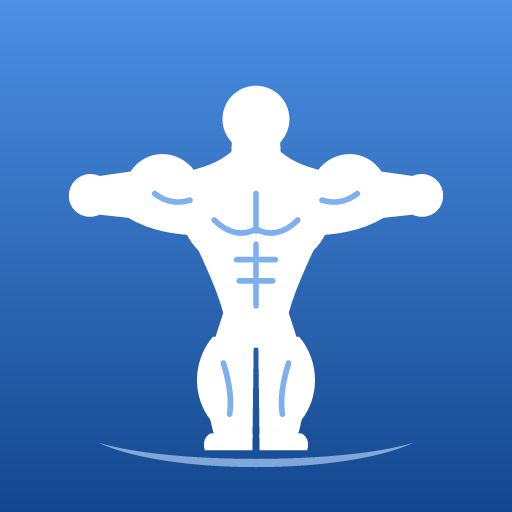
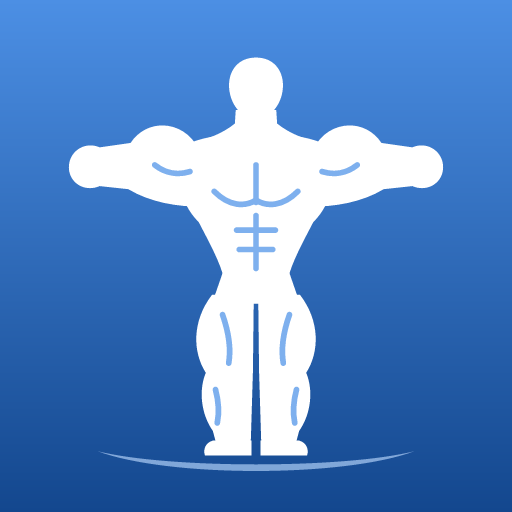
ムキムキの人のイラストをスタイリッシュに：脚を長く、頭を小さい卵形に

Changed region(s): [[0.125, 0.0938, 0.875, 0.9375]]

diff --git a/src/illustrations/shapes.ts b/src/illustrations/shapes.ts
@@ -15,26 +15,26 @@ function mirror(d: string) {
 
 const leftArm =
   // 肩 → 力こぶの山 → ひじ → 前腕 → こぶし → 腕の下側 → わきの下
-  'M37 32 C34 25.5 25.5 24.5 21.5 30.5 L14.5 31.5 C11 30 7.5 32.5 7.5 36 C7.5 39.5 11 41.8 14.5 40.3 L21 41 C26 44 32 45 38 45 Z';
+  'M37 25.5 C34 19 25.5 18 21.5 24 L14.5 25 C11 23.5 7.5 26 7.5 29.5 C7.5 33 11 35.3 14.5 33.8 L21 34.5 C26 37.5 32 38.5 38 38.5 Z';
 const leftLeg =
-  // 太ももの外側のふくらみ → ひざ → ふくらはぎ → 足首
-  'M40.2 68 C35.2 74 35.8 82 39.6 86.8 L40.6 91 L49.2 91 L49.5 68 Z';
-const leftFoot = 'M39.6 90 L49.2 90 L49.2 93.8 L38.4 93.8 C37.8 92.2 38.4 90.6 39.6 90 Z';
+  // 太もものふくらみ → ひざで細く → ふくらはぎ → 足首。脚は長めにしてスタイリッシュに
+  'M40 58.5 C35.4 64.5 35.6 71.5 38.6 76.2 C37 80 37.4 85.4 40.2 89.4 L41 92.4 L48.8 92.4 L49.3 76 L49.5 58.5 Z';
+const leftFoot = 'M40.2 91.6 L49 91.6 L49 95 L38.4 95 C37.9 93.4 38.7 92 40.2 91.6 Z';
 
-/** ムキムキの人（T の字のポーズ：両腕を真横に広げて力こぶ） */
+/** ムキムキの人（T の字のポーズ：両腕を真横に広げて力こぶ）。頭は小さめ、脚は長めの8頭身 */
 export const MUSCLE_MAN = {
   /** 体のシルエット（塗りつぶし） */
   body: [
-    // 頭
-    'M50 11 A7.6 7.6 0 1 1 49.99 11 Z',
+    // 頭（あごが少しとがった卵形）
+    'M50 4.6 C54.2 4.6 56.4 7.8 56.1 11.6 C55.8 15.2 53.5 18.2 50 19 C46.5 18.2 44.2 15.2 43.9 11.6 C43.6 7.8 45.8 4.6 50 4.6 Z',
     // 首と、首から肩への盛り上がり（僧帽筋）
-    'M44.6 22 L55.4 22 L55.6 26 C58.5 28.5 62 29.6 66 30.6 L34 30.6 C38 29.6 41.5 28.5 44.4 26 Z',
+    'M45.4 16.5 L54.6 16.5 L54.8 19.6 C57.8 22 61.2 23.2 65.4 24.2 L34.6 24.2 C38.8 23.2 42.2 22 45.2 19.6 Z',
     // 胴体（肩幅が広く、腰にかけて細くなる逆三角形）
-    'M35 30.5 C42 27.5 58 27.5 65 30.5 C69 37 67.5 44 63 48.5 C60.5 54 58 59.5 57 64.5 L43 64.5 C42 59.5 39.5 54 37 48.5 C32.5 44 31 37 35 30.5 Z',
+    'M35 24 C42 21 58 21 65 24 C69 30.5 67.5 37.5 63 42 C60.4 47 58.2 51 57.2 55 L42.8 55 C41.8 51 39.6 47 37 42 C32.5 37.5 31 30.5 35 24 Z',
     leftArm,
     mirror(leftArm),
     // 腰まわり
-    'M42.6 62.5 L57.4 62.5 L60 70.5 L40 70.5 Z',
+    'M42.6 53 L57.4 53 L60 60.5 L40 60.5 Z',
     leftLeg,
     mirror(leftLeg),
     leftFoot,
@@ -43,23 +43,26 @@ export const MUSCLE_MAN = {
   /** 筋肉のすじ（背景色に近い色の線で描く） */
   lines: [
     // 胸
-    'M50 35.5 L50 44',
-    'M40.5 41.5 C44 45 47.5 45 50 43.5 C52.5 45 56 45 59.5 41.5',
+    'M50 29 L50 37.5',
+    'M40.5 35 C44 38.5 47.5 38.5 50 37 C52.5 38.5 56 38.5 59.5 35',
     // 腹筋
-    'M50 47 L50 61',
-    'M45.6 50.5 L54.4 50.5',
-    'M46.2 55.3 L53.8 55.3',
+    'M50 40.5 L50 52.5',
+    'M45.6 43.8 L54.4 43.8',
+    'M46.2 48.2 L53.8 48.2',
     // 力こぶ
-    'M27 35.5 C29.5 37.5 32.5 37.8 35 37',
-    mirror('M27 35.5 C29.5 37.5 32.5 37.8 35 37'),
+    'M27 29 C29.5 31 32.5 31.3 35 30.5',
+    mirror('M27 29 C29.5 31 32.5 31.3 35 30.5'),
     // 太もも
-    'M42.6 74 C44 78.5 44.6 82 44 85.6',
-    mirror('M42.6 74 C44 78.5 44.6 82 44 85.6'),
+    'M42.4 63 C43.8 67 44.4 70.5 43.8 74',
+    mirror('M42.4 63 C43.8 67 44.4 70.5 43.8 74'),
+    // ふくらはぎ
+    'M40.8 80 C41.6 83 41.6 85.6 41.2 87.6',
+    mirror('M40.8 80 C41.6 83 41.6 85.6 41.2 87.6'),
   ],
 };
 
 /** 足もとのゆるい弧（参考画像の赤い弧のような台） */
-export const GROUND_ARC = 'M14 92 C30 99.5 70 99.5 86 92 C70 97 30 97 14 92 Z';
+export const GROUND_ARC = 'M14 94 C30 100 70 100 86 94 C70 98 30 98 14 94 Z';
 
 /** 炎（24×24）。外側と内側の2色で描く */
 export const FLAME = {
